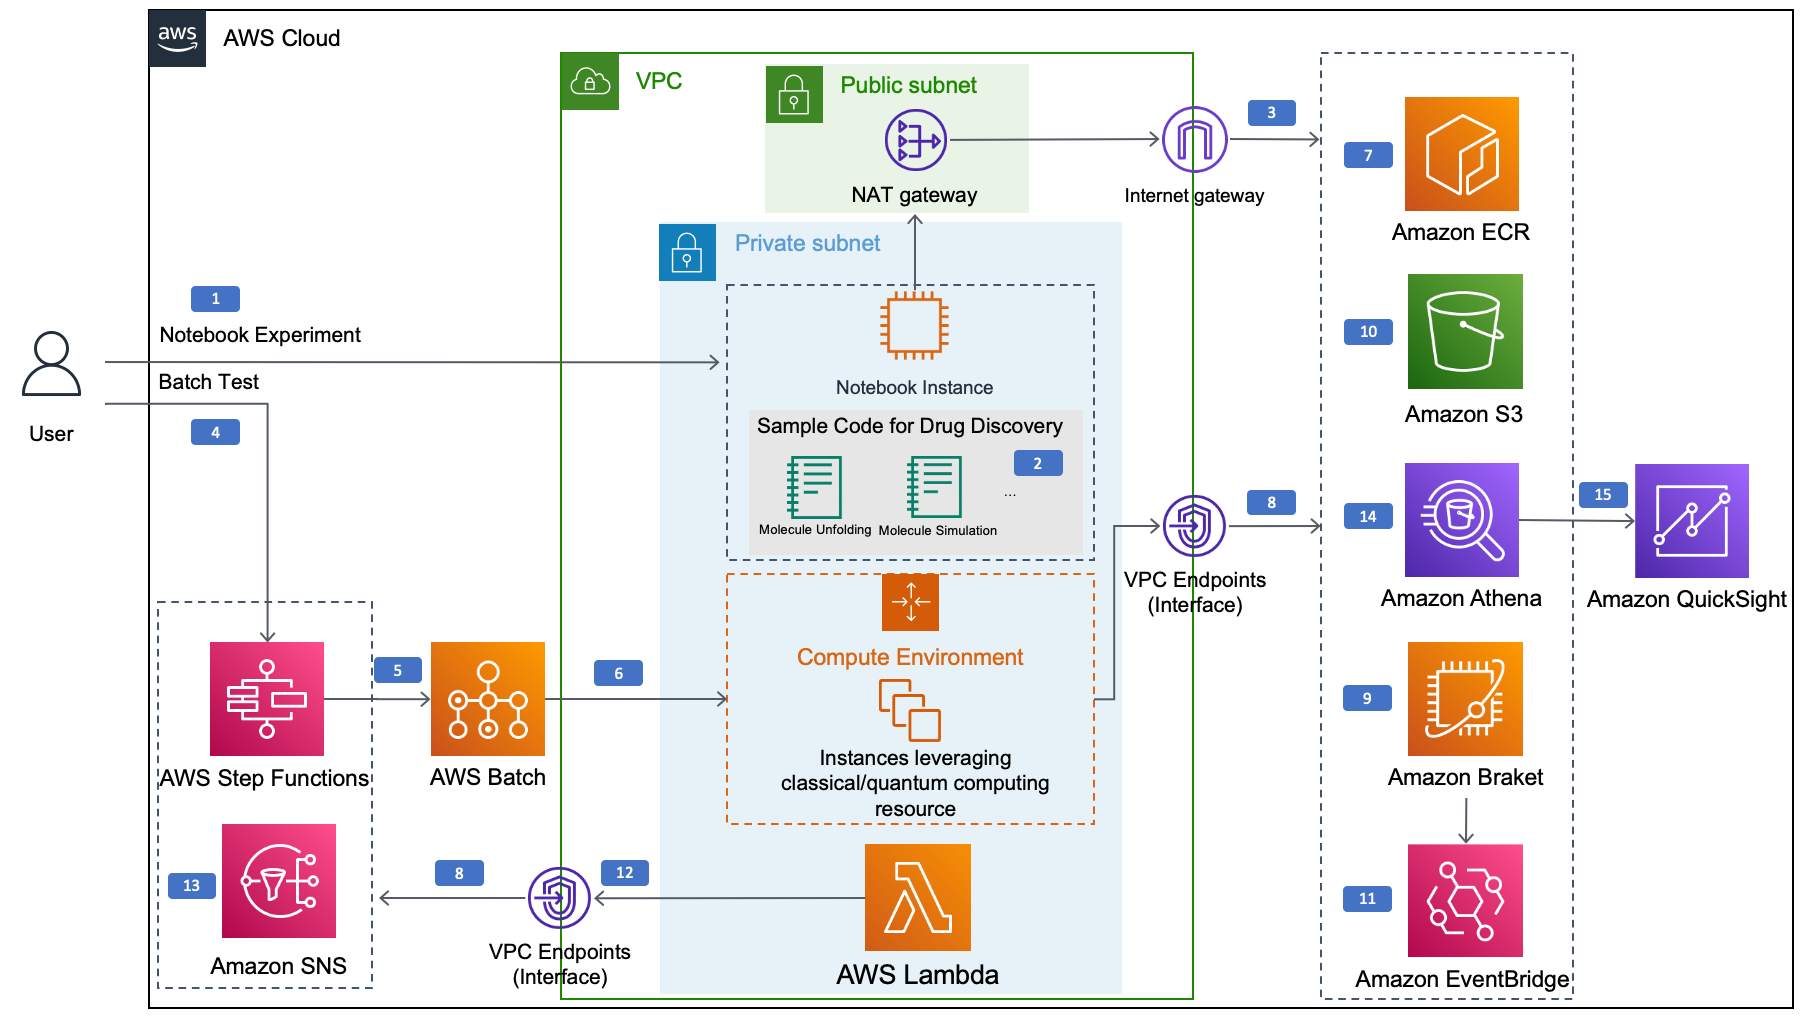
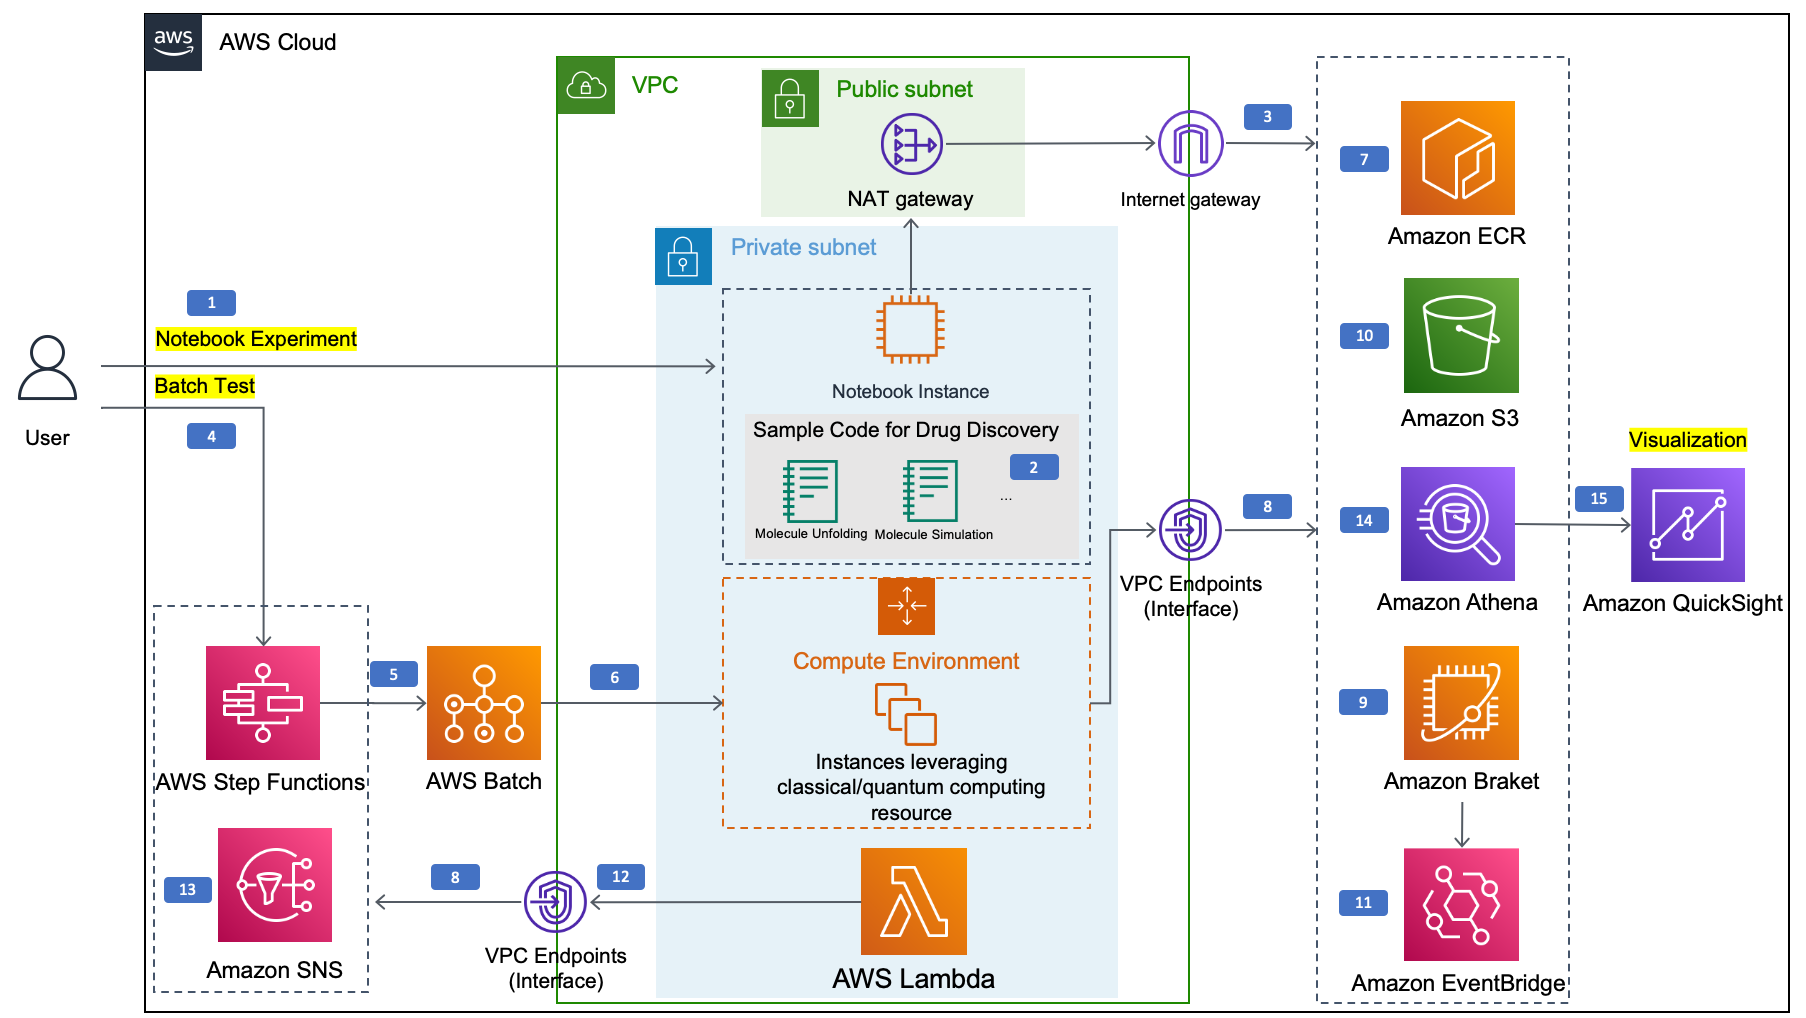
update image

Changed region(s): [[0.0, 0.0, 1.0, 1.0], [0.5891, 0.2136, 0.6202, 0.2441], [0.0, 0.4272, 0.031, 0.4577]]

diff --git a/docs/en/architecture.md b/docs/en/architecture.md
@@ -3,13 +3,12 @@ Deploying this solution with the default parameters builds the following environ
 ![architecture](./images/architecture.png)
 *Figure 1: The quantum ready solution for drug discovery architecture on AWS*
 
-This solution deploys the Amazon CloudFormation template in your AWS Cloud account and completes the following settings.
+This solution deploys the Amazon CloudFormation template in your 
+AWS Cloud account and provides three URLs. One for **Visualization**.
+The others provide user with two approaches to study drug discovery 
+problems: **Notebook Experiment** and **Batch Test**:
 
-The AWS CloudFormation template deploys two approaches for user to do 
-experiments with drug discovery problems which are **Notebook Experiment** 
-and **Batch Test**:
-
-1. The solution deployed an instance for 
+1. The solution deploys an instance for 
 [AWS SageMaker Notebook](https://docs.aws.amazon.com/sagemaker/latest/dg/nbi.html). 
 The user can do **Notebook Experiment** for drug discovery on classical computing and 
 quantum computing in this notebook.
@@ -25,7 +24,7 @@ AWS services:  [Amazon ECR](https://aws.amazon.com/ecr/),
 [Amazon S3](https://aws.amazon.com/s3/),
 and [Amazon Braket](https://aws.amazon.com/braket/).
 
-4. The solution also deployed 
+4. The solution also deploys 
 [AWS Step Function](https://aws.amazon.com/step-functions/) for user to do 
 **Batch Test**. 
 
@@ -40,7 +39,7 @@ between quantum annealer and simulated annealer can be figured out.
 7. The images for **Batch Test** have been built in Amazon ECR. For customizing 
 the logic for **Batch Test**, please refer to the instructions in workshop page.
 
-8. The **Batch Test** deployed [VPC Endpoints](https://docs.aws.amazon.com/vpc/latest/privatelink/vpc-endpoints.html) to ensure secure connection to AWS 
+8. The **Batch Test** deploys [VPC Endpoints](https://docs.aws.amazon.com/vpc/latest/privatelink/vpc-endpoints.html) to ensure secure connection to AWS 
 services: AWS Step Function, [Amazon SNS](https://aws.amazon.com/sns/), 
 Amazon ECR, Amazon S3, Amazon Braket and 
 [Amazon EventBridge](https://aws.amazon.com/eventbridge/).
